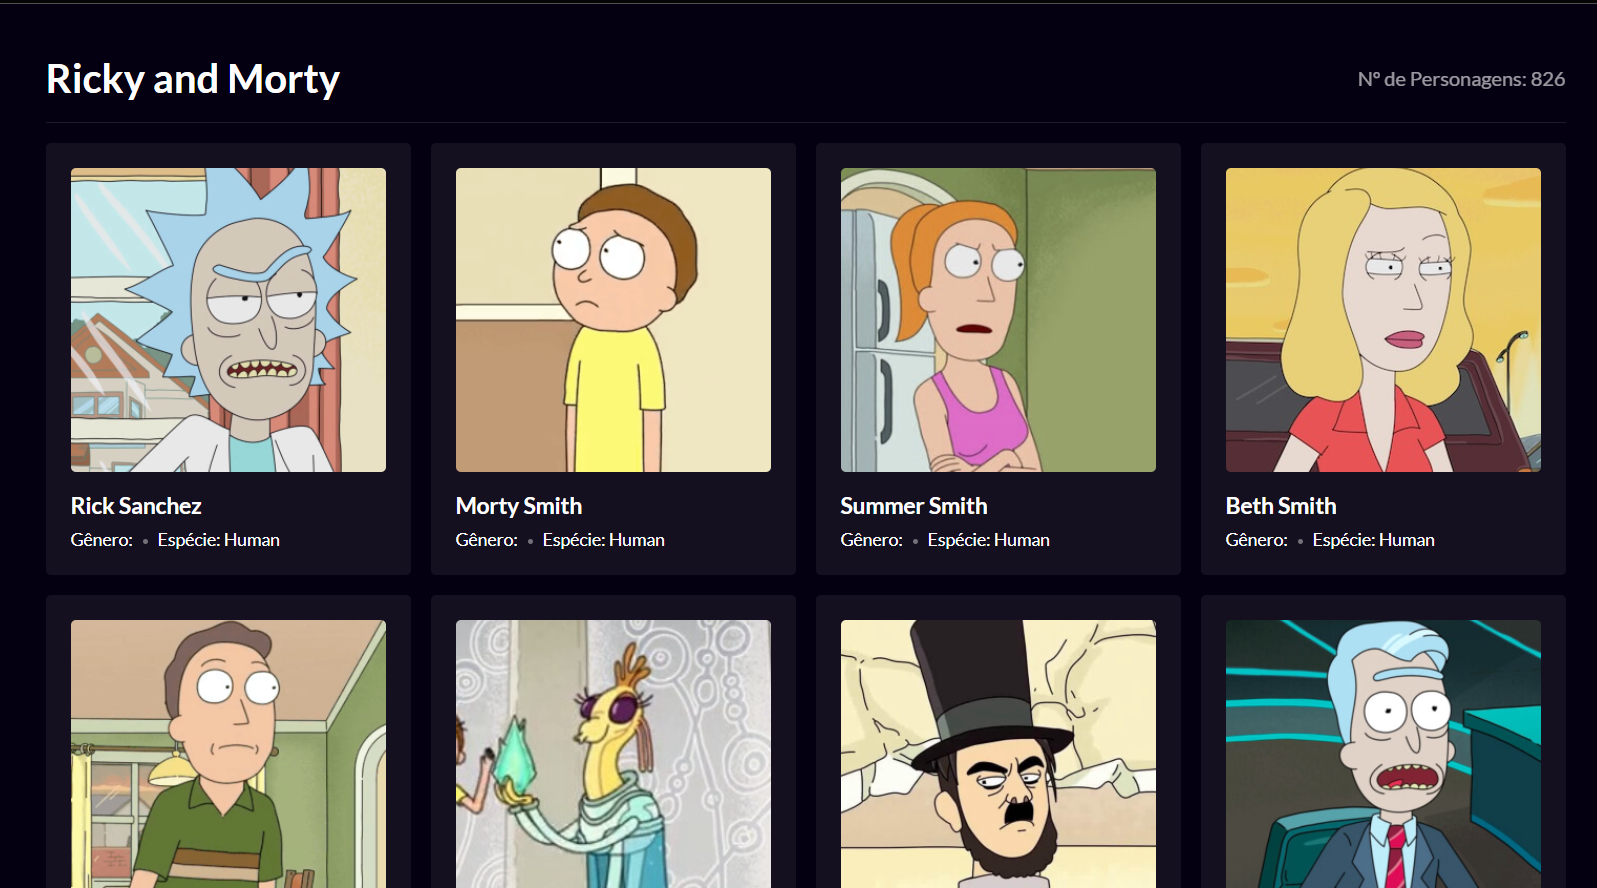
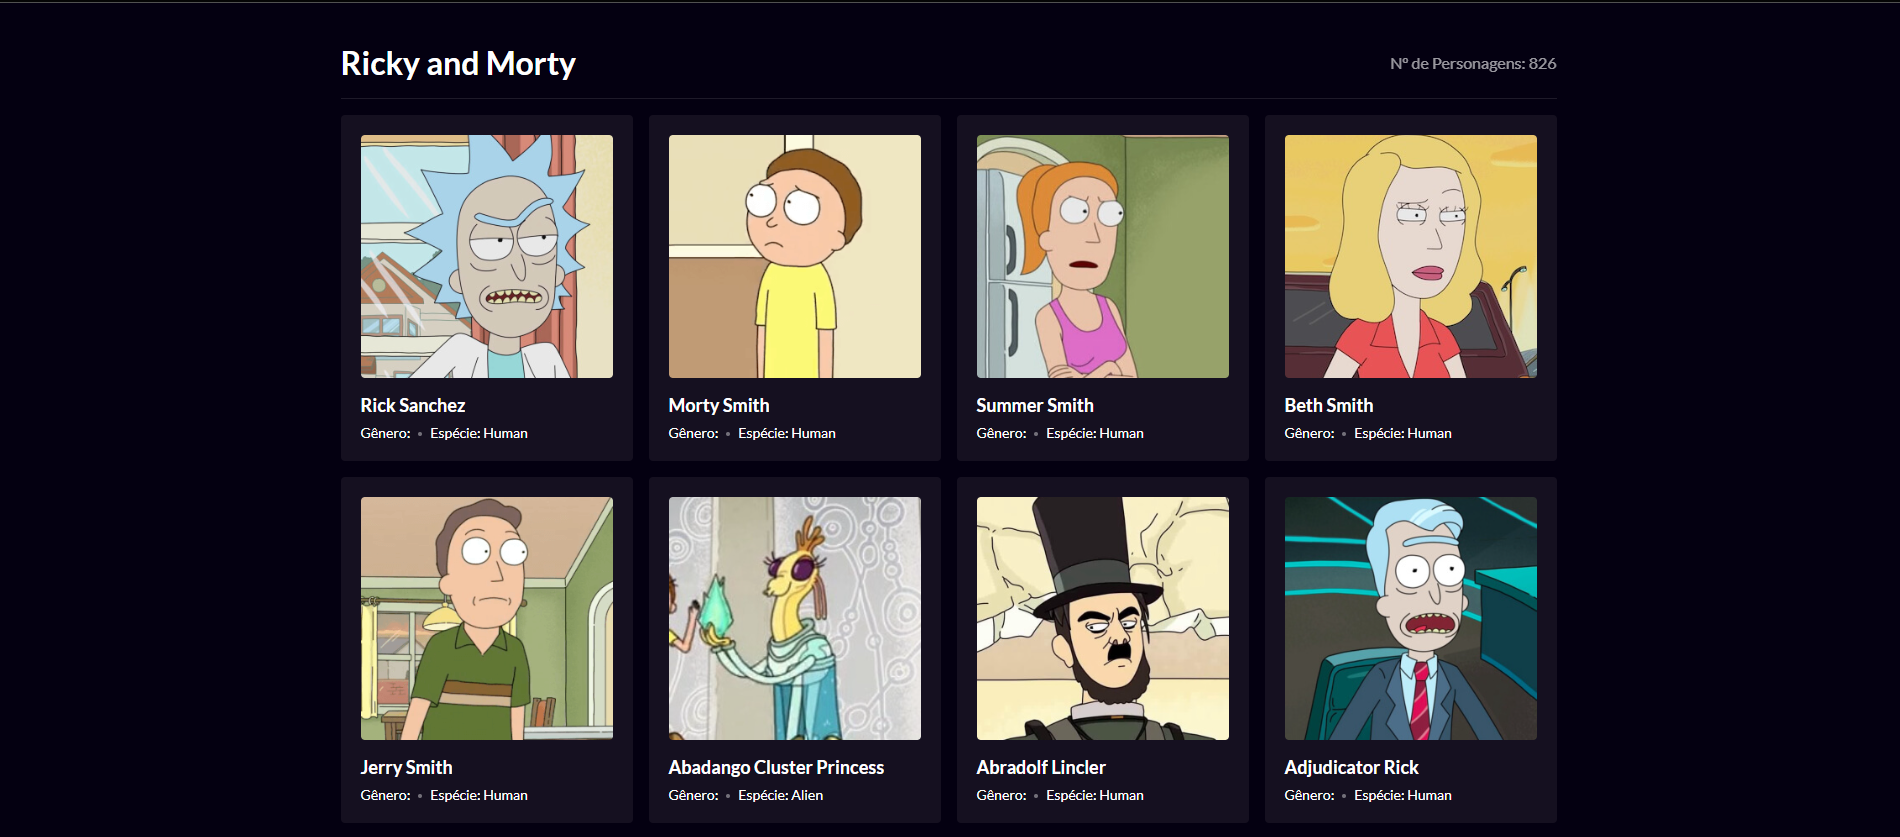
ajustes imagem, layout, e responsividade

diff --git a/src/components/SectionCases/styles.js b/src/components/SectionCases/styles.js
@@ -1,19 +1,20 @@
 import { styled } from '../../styles';
 
 export const SectionCasesStyle = styled('section', {
-    padding: '11.7rem 11.2rem',
+    padding: '7rem 2rem',
     backgroundColor: '#FFFFFF',
 
     '.title-cases': {
         display: 'flex',
-        alignItems: 'flex-end',
+        alignItems: 'flex-start',
         justifyContent: 'space-between',
+        height: 38,
+        marginBottom: 35,
 
         h2: {
             textAlign: 'center',
             fontWeight: 600,
             fontSize: 32,
-            lineHeight: '120%',
             color: '$gray900',
         },
         p: {
@@ -21,7 +22,6 @@ export const SectionCasesStyle = styled('section', {
             fontSize: 16,
             fontWeight: 400,
             color: '$gray900',
-            lineHeight: '150%',
         },
     },
 
@@ -30,10 +30,8 @@ export const SectionCasesStyle = styled('section', {
         alignItems: 'center',
         justifyContent: 'center',
         maxWidth: '100%',
-        height: 474,
 
         ".swiper": {
-            height: 473,
             borderRadius: 4,
             display: 'flex',
             alignItems: 'center',
@@ -45,11 +43,13 @@ export const SectionCasesStyle = styled('section', {
                 justifyContent: 'center',
 
                 ".image": {
+                    width: '100%',
+                    maxWidth: 896,
                     display: 'flex',
                     alignItems: 'center',
                     justifyContent: 'center',
                     overflow: 'hidden',
-                    borderRadius: 4,
+                    borderRadius: 30,
 
                     img: {
                         height: '100%',
@@ -73,55 +73,19 @@ export const SectionCasesStyle = styled('section', {
         },
     },
 
-    '@xxl': {
-        padding: '5.7rem 11.2rem',
-
+    '@lg': {
         '.title-cases': {
+            marginBottom: 19,
+
             h2: {
-                marginBottom: 36,
+                fontSize: 24,
+            },
+
+            p: {
+                fontSize: 15,
             },
         },
     },
 
-    '@xl': {
-        padding: '5.7rem 11.2rem',
 
-        '.title-cases': {
-            h2: {
-                marginBottom: 36,
-            },
-        },
-    },
-
-    '@sm': {
-        padding: '1rem 11.2rem',
-
-        '.title-cases': {
-            h2: {
-                fontSize: 18,
-            }
-        },
-
-        '.slide-cases': {
-            height: 300,
-        },
-    },
-
-    '@xs': {
-        padding: '1rem 1rem',
-
-        '.title-cases': {
-            h2: {
-                fontSize: 18,
-            }
-        },
-
-        '.slide-cases': {
-            height: 235,
-
-            '.swiper': {
-                height: 191,
-            }
-        },
-    },
-})
+});

diff --git a/src/components/SectioHero/styles.js b/src/components/SectioHero/styles.js
@@ -56,10 +56,18 @@ export const SectionStyle = styled('section', {
         '.hero-right': {
             width: '100%',
             maxWidth: 520,
+            borderRadius: '3%',
+            /* From https://css.glass */
+            background: 'rgba(255, 255, 255, 0.48)',
+            borderRadius: 16,
+
+
 
             img: {
+                border: '1px solid rgba(104, 33, 122, 0.72)',
                 objectFit: 'cover',
                 height: 673,
+                borderRadius: '3%',
             },
         },
     },

diff --git a/src/components/Differential/styles.js b/src/components/Differential/styles.js
@@ -1,7 +1,7 @@
 import { styled } from '../../styles';
 
 export const DifferentialStyle = styled('section', {
-    padding: '11.7rem 11.2rem',
+    padding: '7rem 2rem',
     backgroundColor: '#FFFFFF',
 
     '.title': {

diff --git a/src/styles/global.js b/src/styles/global.js
@@ -17,6 +17,7 @@ export const globalStyles = globalCss({
     },
 
   },
+  
   body: {
     background: 'linear-gradient(119.36deg, #010101 0%, #000000 100%);',
     color: '$white',
